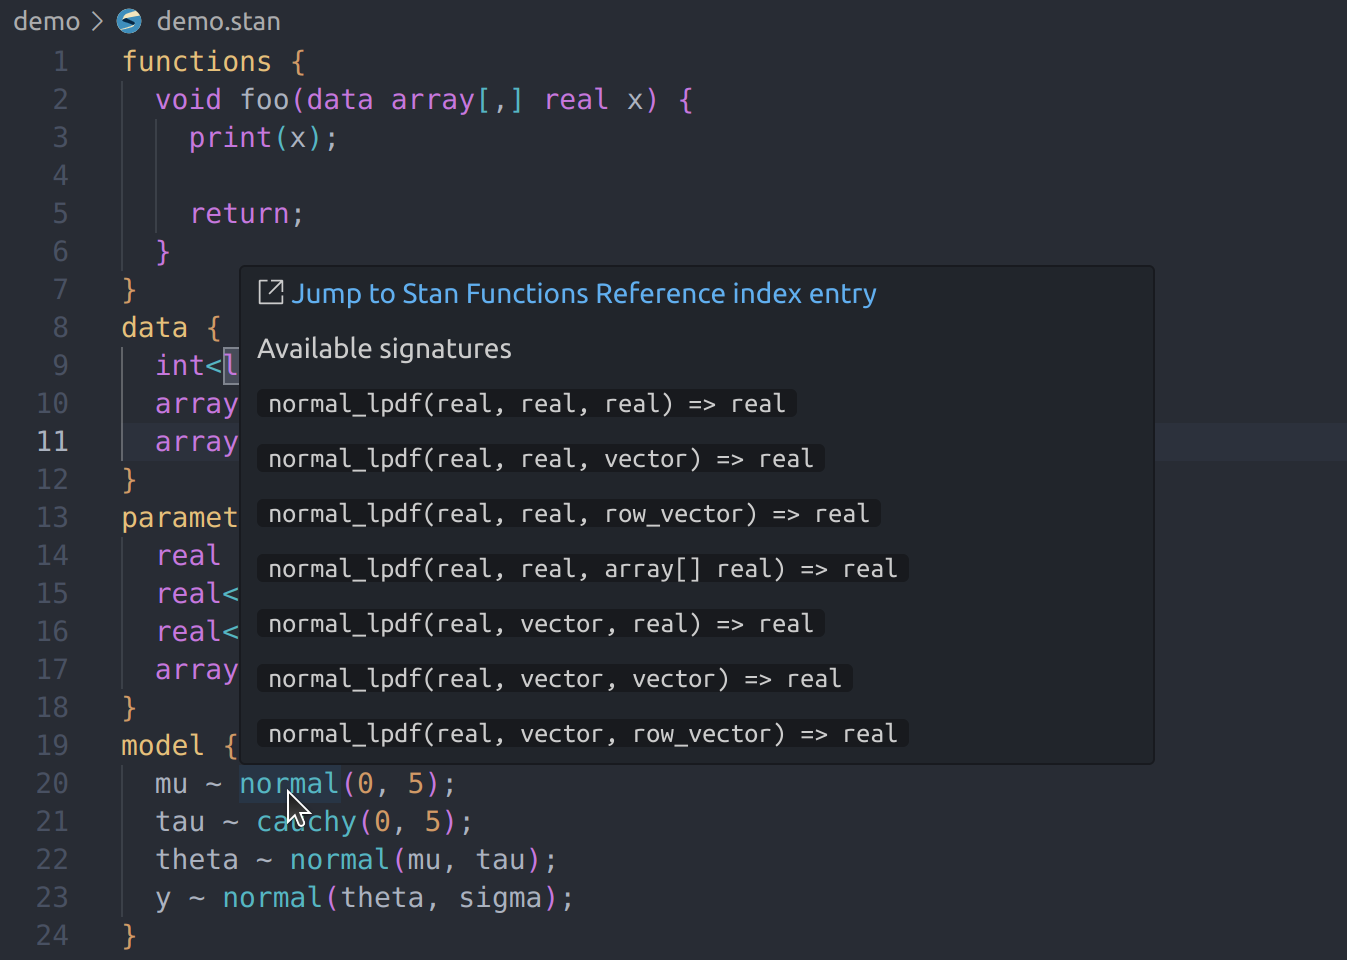
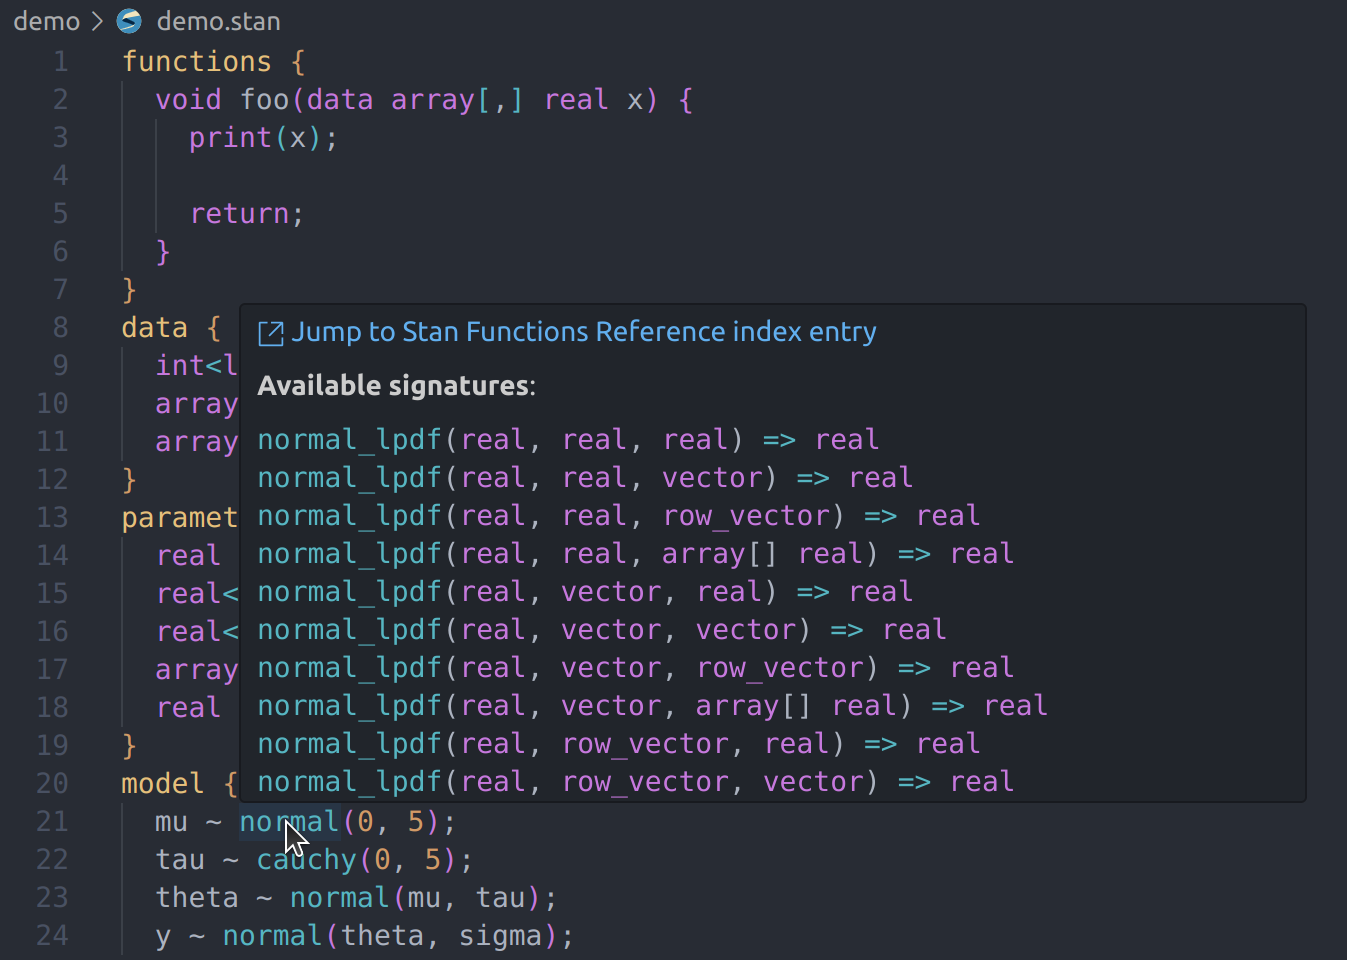
Clean up hover, completion, syntax edge cases

diff --git a/src/hover.ts b/src/hover.ts
@@ -4,10 +4,7 @@ import logger from "./logger";
 import { getMathSignatures, getMathDistributions } from "./callStanc";
 import { getDocumentationForFunction } from "./documentation";
 
-const functionSignatureMap: Map<
-  string,
-  Array<string | vscode.MarkdownString>
-> = new Map();
+const functionSignatureMap: Map<string, vscode.MarkdownString> = new Map();
 const distributionToFunctionMap: Map<string, string> = new Map();
 
 function setupSignatureMap() {
@@ -16,15 +13,24 @@ function setupSignatureMap() {
   for (const line of lines) {
     const [name] = line.split("(", 1);
     if (functionSignatureMap.has(name)) {
-      functionSignatureMap.get(name)?.push(`\`${line}\``);
+      functionSignatureMap.get(name)?.appendCodeblock(line, "stan");
     } else {
-      functionSignatureMap.set(name, [
-        getDocumentationForFunction(name),
-        "Available signatures",
-        `\`${line}\``,
-      ]);
+      functionSignatureMap.set(
+        name,
+        getDocumentationForFunction(name)
+          .appendMarkdown("\n\n**Available signatures**:")
+          .appendCodeblock(line, "stan"),
+      );
     }
   }
+  // not technically 'functions', but still useful
+  functionSignatureMap.set("print", getDocumentationForFunction("print"));
+  functionSignatureMap.set("reject", getDocumentationForFunction("reject"));
+  functionSignatureMap.set(
+    "fatal_error",
+    getDocumentationForFunction("fatal_error"),
+  );
+  functionSignatureMap.set("target", getDocumentationForFunction("target"));
 
   const mathDistributions = getMathDistributions();
   const distLines = mathDistributions.split("\n");
@@ -43,20 +49,19 @@ function provideHover(
   document: vscode.TextDocument,
   position: vscode.Position,
 ): vscode.Hover | undefined {
-  const fnRange = document.getWordRangeAtPosition(position, /[\w_]+\s*\(/);
-  if (!fnRange) {
-    return undefined;
+  let fnName: string | undefined = undefined;
+  const distRange = document.getWordRangeAtPosition(position, /~\s*[\w_]+/);
+  if (distRange) {
+    const distName = document.getText(distRange).slice(1).trim();
+    fnName = getDistributionName(distName);
   }
-  let fnName = document.getText(fnRange).slice(0, -1).trim();
-  const distName = getDistributionName(fnName);
-  if (distName) {
-    fnName = distName;
+  if (!fnName) {
+    const fnRange = document.getWordRangeAtPosition(position, /[\w_]+\s*\(/);
+    if (!fnRange) return undefined;
+    fnName = document.getText(fnRange).slice(0, -1).trim();
   }
-
-  const signatures = functionSignatureMap.get(fnName);
-  if (!signatures) {
-    return undefined;
-  }
+  let signatures = functionSignatureMap.get(fnName);
+  if (!signatures) return undefined;
   return new vscode.Hover(signatures);
 }
 

diff --git a/src/completion.ts b/src/completion.ts
@@ -21,6 +21,12 @@ function setUpTries() {
     builtInFunctions.map(name, name);
   }
 
+  // not technically 'functions', but still useful to autocomplete
+  builtInFunctions.map("print", "print");
+  builtInFunctions.map("reject", "reject");
+  builtInFunctions.map("fatal_error", "fatal_error");
+  builtInFunctions.map("target", "target");
+
   const mathDistributions = getMathDistributions();
   const distLines = mathDistributions.split("\n");
   for (const line of distLines) {

diff --git a/src/documentation.ts b/src/documentation.ts
@@ -2,7 +2,7 @@ import { MarkdownString } from "vscode";
 
 export function getDocumentationForFunction(name: string): MarkdownString {
   return new MarkdownString(
-    `$(link-external) [Jump to Stan Functions Reference index entry](https://mc-stan.org/docs/functions-reference/functions_index.html#${name})`,
+    `[$(link-external) Jump to Stan Functions Reference index entry](https://mc-stan.org/docs/functions-reference/functions_index.html#${name})`,
     true,
   );
 }

diff --git a/CHANGELOG.md b/CHANGELOG.md
@@ -1,5 +1,10 @@
 # Change Log
 
+# 0.8.1
+
+- Improved appearance of hover-over documentation
+- Improved edge cases in syntax highlighting
+
 # 0.8.0
 
 - Add completion for built in functions and distributions
